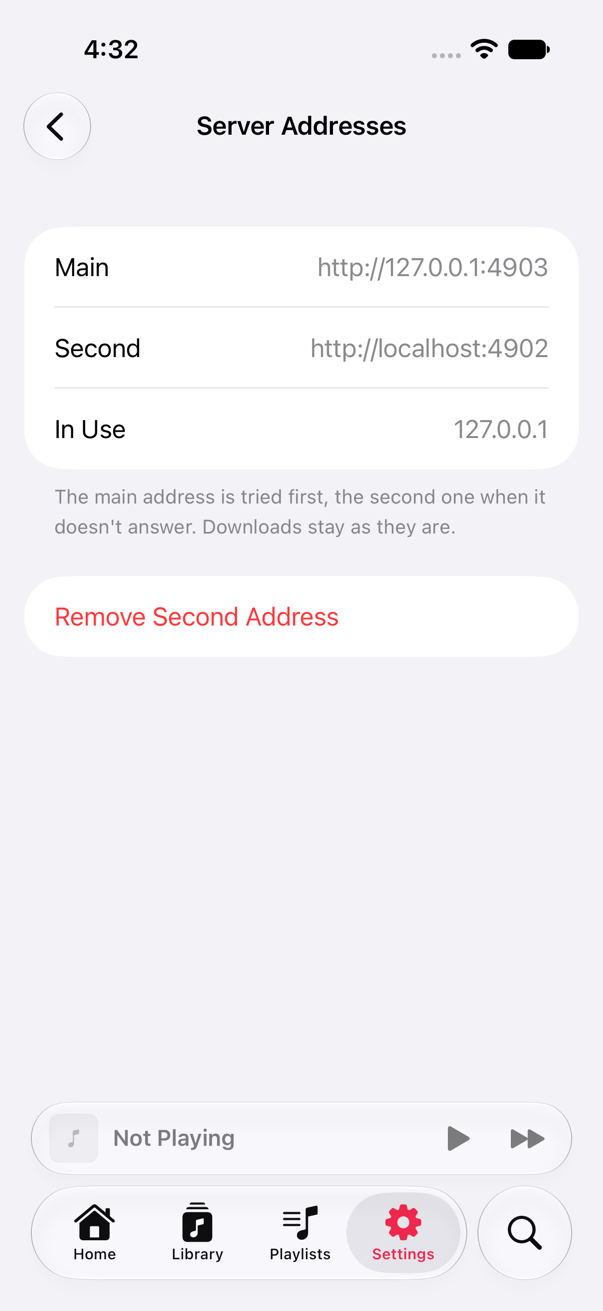
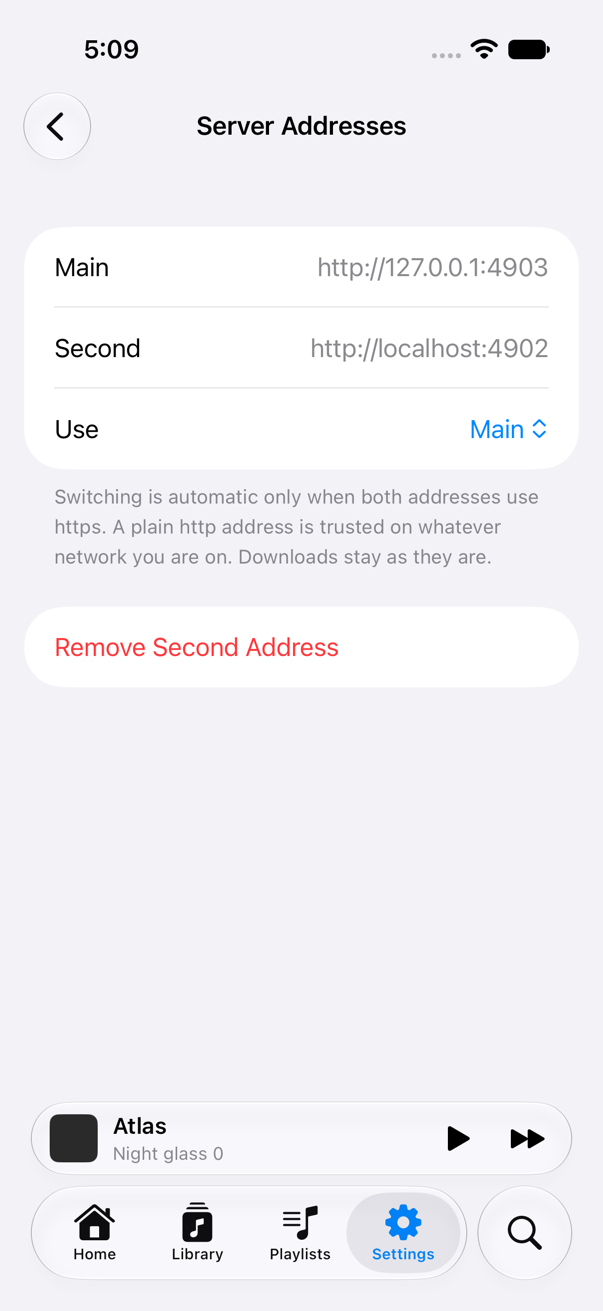
fix(ios): never auto use http

diff --git a/apps/ios/Sources/AppModel.swift b/apps/ios/Sources/AppModel.swift
@@ -46,7 +46,7 @@ final class AppModel: ObservableObject {
             }
         }
     }
-    /// Another way to the same server, tried when the main address doesn't answer.
+    /// Another way to the same server. Used by itself only between two https addresses, see `ServerAddresses`.
     @Published private(set) var secondServer = UserDefaults.standard.url(forKey: "server2")
 
     let downloads = DownloadsModel()
@@ -57,6 +57,11 @@ final class AppModel: ObservableObject {
 
     var user: String { defaults.string(forKey: "user") ?? "" }
     var mainServer: URL? { defaults.url(forKey: "server") }
+    /// The address chosen by hand, when switching isn't automatic.
+    private var pickedServer: URL? { defaults.url(forKey: "serverPicked") }
+    var switchesByItself: Bool { mainServer.map { ServerAddresses.automatic(main: $0, second: secondServer) } ?? false }
+    /// Where a password may be asked for and sent: never a fallback.
+    var signInAddress: URL? { mainServer.map { ServerAddresses.starting(main: $0, second: secondServer) } }
     /// The client to ask the server with, nil when nothing should be asked.
     var live: ServerClient? { needsSignIn || offlineMode ? nil : client }
 
@@ -65,7 +70,9 @@ final class AppModel: ObservableObject {
         try? FileManager.default.createDirectory(at: folder, withIntermediateDirectories: true)
         // Without a database there is no app to show; a crash here is a full disk or a broken install.
         store = try! LibraryStore(path: folder.appending(path: "library.sqlite").path)
-        client = defaults.url(forKey: "server").map { ServerClient(server: $0) }
+        let second = defaults.url(forKey: "server2")
+        let picked = defaults.url(forKey: "serverPicked")
+        client = defaults.url(forKey: "server").map { ServerClient(server: ServerAddresses.starting(main: $0, second: second, picked: picked), home: $0) }
         needsSignIn = defaults.string(forKey: "user") == nil || defaults.bool(forKey: "signedOut")
         library = Self.load(store)
         connectDownloads()
@@ -94,6 +101,8 @@ final class AppModel: ObservableObject {
         defaults.set(main, forKey: "server")
         defaults.set(user, forKey: "user")
         defaults.set(false, forKey: "signedOut")
+        // Typed by hand, so it is a pick.
+        defaults.set(server, forKey: "serverPicked")
         client = ServerClient(server: server, home: main)
         syncError = nil
         needsSignIn = false
@@ -117,25 +126,38 @@ final class AppModel: ObservableObject {
 
     func removeSecondServer() {
         setSecondServer(nil)
-        guard let main = mainServer, client?.server != main else { return }
-        client = ServerClient(server: main)
+        if let main = mainServer { move(to: main) }
+    }
+
+    /// The user's own choice of address.
+    func use(_ server: URL) {
+        defaults.set(server, forKey: "serverPicked")
+        syncError = nil
+        move(to: server)
+        Task { await sync() }
+    }
+
+    private func move(to server: URL) {
+        guard let main = mainServer, server != client?.server else { return }
+        client = ServerClient(server: server, home: main)
         connectDownloads()
+        AppLog.shared.add("Now using \(server.absoluteString)")
     }
 
     private func setSecondServer(_ server: URL?) {
         secondServer = server
         defaults.set(server, forKey: "server2")
+        defaults.removeObject(forKey: "serverPicked")
     }
 
-    /// Moves to whichever address answers. Files stay keyed to the main one, so nothing is fetched twice.
+    /// Moves to the address to be on now. Files stay keyed to the main one, so nothing is fetched twice.
     func chooseAddress() async {
         guard !offlineMode, let main = mainServer, let second = secondServer, let current = client?.server else { return }
-        let next = await ServerAddresses.pick(main: main, second: second, current: current) { await ServerClient(server: $0).reachable() }
+        let picked = pickedServer
+        let next = await ServerAddresses.pick(main: main, second: second, picked: picked, current: current) { await ServerClient(server: $0).reachable() }
         // Signed out or changed while asking.
-        guard !needsSignIn, !offlineMode, secondServer == second, mainServer == main, next != client?.server else { return }
-        client = ServerClient(server: next, home: main)
-        connectDownloads()
-        AppLog.shared.add("Now using \(next.absoluteString)")
+        guard !needsSignIn, !offlineMode, secondServer == second, mainServer == main, pickedServer == picked else { return }
+        move(to: next)
     }
 
     func sync() async {
@@ -173,7 +195,13 @@ final class AppModel: ObservableObject {
             downloads.librarySynced()
             AppLog.shared.add("Synced \(library.songs.count) songs")
         } catch ServerError.signedOut {
-            if !Task.isCancelled { needsSignIn = true }
+            guard !Task.isCancelled else { return }
+            guard let home = signInAddress, client.server != home else { return needsSignIn = true }
+            // A fallback saying no is not a reason to ask for the password there: go back instead.
+            defaults.removeObject(forKey: "serverPicked")
+            move(to: home)
+            syncError = "The other address didn't accept the sign in. Remove it and add it again."
+            AppLog.shared.add("Sign in refused at \(client.server.absoluteString)")
         } catch {
             if !Task.isCancelled {
                 syncError = error.localizedDescription
@@ -196,7 +224,8 @@ final class AppModel: ObservableObject {
         defaults.set(true, forKey: "signedOut")
         needsSignIn = true
         connectDownloads()
-        let others = [mainServer, secondServer].compactMap { $0 }.filter { $0 != client?.server }
+        // Nothing is posted to a plain http address that isn't in use.
+        let others = [mainServer, secondServer].compactMap { $0 }.filter { $0 != client?.server && $0.scheme == "https" }
         signOutTask = Task {
             await stopSync()
             await client?.signOut()

diff --git a/apps/ios/Sources/Core/SongCache.swift b/apps/ios/Sources/Core/SongCache.swift
@@ -10,26 +10,23 @@ final class SongCache: @unchecked Sendable {
         try? FileManager.default.createDirectory(at: folder, withIntermediateDirectories: true)
     }
 
-    /// The copy of this song made at this bit rate, zero being the file as it is.
-    func file(_ id: String, limit: Int) -> URL? {
-        let prefix = "\(limit)-\(DownloadLibrary.fileName(id))."
+    /// The copy of this song, whatever bit rate it was fetched at: playing it costs nothing.
+    func file(_ id: String) -> URL? {
+        let prefix = "\(DownloadLibrary.fileName(id))."
         return names().first { $0.hasPrefix(prefix) }.map { folder.appendingPathComponent($0) }
     }
 
-    /// Drops every copy but those of `ahead` at this bit rate, and any of the song now on.
-    func prune(ahead: [String], current: String?, limit: Int) {
-        let wanted = ahead.map { "\(limit)-\(DownloadLibrary.fileName($0))" }
-        let now = current.map(DownloadLibrary.fileName)
-        for name in names() {
-            let stem = String(name.prefix { $0 != "." })
-            if wanted.contains(stem) || String(stem.drop { $0 != "-" }.dropFirst()) == now { continue }
+    /// Drops every song not in `ids`.
+    func prune(keeping ids: [String]) {
+        let wanted = Set(ids.map(DownloadLibrary.fileName))
+        for name in names() where !wanted.contains(String(name.prefix { $0 != "." })) {
             try? FileManager.default.removeItem(at: folder.appendingPathComponent(name))
         }
     }
 
     /// One at a time, in queue order. Stops when the network does.
     func fill(_ songs: [Song], limit: Int, client: ServerClient, added: @Sendable () async -> Void) async {
-        for song in songs where file(song.id, limit: limit) == nil {
+        for song in songs where file(song.id) == nil {
             let suffix = song.suffix?.lowercased()
             let raw = limit == 0 && (suffix.map(AudioSource.native.contains) ?? true)
             var request = URLRequest(url: client.streamURL(song: song.id, source: raw ? .original : .transcoded, bitRate: limit > 0 ? limit : 320))
@@ -40,7 +37,7 @@ final class SongCache: @unchecked Sendable {
                 if Task.isCancelled { return }
                 guard (response as? HTTPURLResponse)?.statusCode == 200,
                       let kind = DownloadLibrary.audioKind(temporary, suffix: raw ? suffix : nil) else { continue }
-                let target = folder.appendingPathComponent("\(limit)-\(DownloadLibrary.fileName(song.id)).\(kind)")
+                let target = folder.appendingPathComponent("\(DownloadLibrary.fileName(song.id)).\(kind)")
                 try FileManager.default.moveItem(at: temporary, to: target)
                 if !raw, DownloadLibrary.isShort(target, expected: song.duration) {
                     try? FileManager.default.removeItem(at: target)

diff --git a/apps/ios/Tests/CoreTests/OfflineTests.swift b/apps/ios/Tests/CoreTests/OfflineTests.swift
@@ -72,24 +72,37 @@ final class OfflineTests: XCTestCase {
         await cache.fill(songs("s-1", "s.2"), limit: 128, client: client) {}
         await cache.fill(songs("s-1"), limit: 128, client: client) {}
         XCTAssertEqual(AudioServer.asked, ["format=mp3&id=s-1&maxBitRate=128", "format=mp3&id=s.2&maxBitRate=128"])
-        XCTAssertNil(cache.file("s-1", limit: 0))
+        // A copy at another bit rate still counts.
+        await cache.fill(songs("s-1"), limit: 0, client: client) {}
+        XCTAssertEqual(AudioServer.asked.count, 2)
 
-        cache.prune(ahead: ["s.2"], current: nil, limit: 128)
-        XCTAssertNil(cache.file("s-1", limit: 128))
-        XCTAssertNotNil(cache.file("s.2", limit: 128))
-        cache.prune(ahead: [], current: "s.2", limit: 0)
-        XCTAssertNotNil(cache.file("s.2", limit: 128))
+        cache.prune(keeping: ["s.2"])
+        XCTAssertNil(cache.file("s-1"))
+        XCTAssertNotNil(cache.file("s.2"))
     }
 
     func testTheMainAddressWinsWhenItAnswersElseTheSecond() async {
-        let main = URL(string: "http://home.test")!, second = URL(string: "https://away.test")!
+        let main = URL(string: "https://home.test")!, second = URL(string: "https://away.test")!
         func pick(_ up: Set<URL>, current: URL) async -> URL {
-            await ServerAddresses.pick(main: main, second: second, current: current) { up.contains($0) }
+            await ServerAddresses.pick(main: main, second: second, picked: nil, current: current) { up.contains($0) }
         }
         let both = await pick([main, second], current: second)
         let away = await pick([second], current: main)
         let neither = await pick([], current: second)
         XCTAssertEqual([both, away, neither], [main, second, second])
+    }
+
+    func testAPlainHTTPAddressIsOnlyUsedWhenPicked() async {
+        let lan = URL(string: "http://192.168.1.5:4533")!, secure = URL(string: "https://music.test")!
+        func pick(_ main: URL, _ second: URL, picked: URL? = nil) async -> URL {
+            await ServerAddresses.pick(main: main, second: second, picked: picked, current: lan) { _ in
+                XCTFail("nothing is asked when switching is not automatic")
+                return true
+            }
+        }
+        let used = [await pick(lan, secure), await pick(secure, lan), await pick(secure, lan, picked: lan)]
+        XCTAssertEqual(used, [secure, secure, lan])
+        XCTAssertEqual(ServerAddresses.starting(main: secure, second: lan), secure)
     }
 
     func testAnotherServersLibraryIsNotASecondAddress() {

diff --git a/apps/ios/Sources/Core/ServerAddresses.swift b/apps/ios/Sources/Core/ServerAddresses.swift
@@ -2,9 +2,24 @@ import Foundation
 
 /// One server, reachable two ways: the main address (say at home) and a second one (say away).
 enum ServerAddresses {
-    /// The main address whenever it answers, else the second, else stay put.
-    static func pick(main: URL, second: URL?, current: URL, reachable: (URL) async -> Bool) async -> URL {
+    /// Only between two https addresses does the app move by itself: with plain http, whatever holds that address
+    /// on the network at hand would be sent the session.
+    static func automatic(main: URL, second: URL?) -> Bool {
+        main.scheme == "https" && second?.scheme == "https"
+    }
+
+    /// Where to be before asking anyone: what the user picked, else an https address over an http one, else the main.
+    /// With no pick this is also the only address whose "signed out" asks for the password again.
+    static func starting(main: URL, second: URL?, picked: URL? = nil) -> URL {
         guard let second else { return main }
+        if automatic(main: main, second: second) { return main }
+        if let picked, picked == main || picked == second { return picked }
+        return main.scheme != "https" && second.scheme == "https" ? second : main
+    }
+
+    /// The main address whenever it answers, else the second, else stay put. Not automatic: nothing is asked.
+    static func pick(main: URL, second: URL?, picked: URL?, current: URL, reachable: (URL) async -> Bool) async -> URL {
+        guard let second, automatic(main: main, second: second) else { return starting(main: main, second: second, picked: picked) }
         if await reachable(main) { return main }
         if await reachable(second) { return second }
         return current == second ? second : main

diff --git a/apps/ios/Sources/Views/ServerSettings.swift b/apps/ios/Sources/Views/ServerSettings.swift
@@ -15,9 +15,20 @@ struct ServerSettings: View {
                 if let second = model.secondServer {
                     LabeledContent("Second", value: second.absoluteString)
                 }
-                LabeledContent("In Use", value: model.client?.server.host() ?? "")
+                if let main = model.mainServer, let second = model.secondServer, !model.switchesByItself {
+                    Picker("Use", selection: Binding(get: { model.client?.server ?? main }, set: { model.use($0) })) {
+                        Text("Main").tag(main)
+                        Text("Second").tag(second)
+                    }
+                } else {
+                    LabeledContent("In Use", value: model.client?.server.host() ?? "")
+                }
             } footer: {
-                Text("The main address is tried first, the second one when it doesn't answer. Downloads stay as they are.")
+                if model.secondServer != nil && !model.switchesByItself {
+                    Text("Switching is automatic only when both addresses use https. A plain http address is trusted on whatever network you are on. Downloads stay as they are.")
+                } else {
+                    Text("With two https addresses, the main one is tried first and the second when it doesn't answer. Downloads stay as they are.")
+                }
             }
             if model.secondServer != nil {
                 Section {

diff --git a/apps/ios/Sources/Player/PlayerModel.swift b/apps/ios/Sources/Player/PlayerModel.swift
@@ -112,9 +112,9 @@ final class PlayerModel: ObservableObject {
     /// Whether playing `songs` would drop what is still to come.
     func wouldReplace(_ songs: [Song]) -> Bool { line.wouldLose(songs) }
 
-    /// A downloaded file, or one cached ahead, for the quality now asked for.
+    /// A downloaded file, or one cached ahead.
     func localFile(_ id: String) -> URL? {
-        downloads?.localURL(song: id) ?? songCache?.file(id, limit: bitRateLimit)
+        downloads?.localURL(song: id) ?? songCache?.file(id)
     }
 
     func next() {
@@ -457,7 +457,7 @@ final class PlayerModel: ObservableObject {
         guard wanted != fillKey else { return }
         fillKey = wanted
         filling?.cancel()
-        cache.prune(ahead: ahead.map(\.id), current: count > 0 ? current?.id : nil, limit: limit)
+        cache.prune(keeping: count > 0 ? ahead.map(\.id) + [current?.id].compactMap { $0 } : [])
         guard isPlaying, let client, !ahead.isEmpty else {
             // Nothing is fetched while paused; ask again once it plays.
             if !isPlaying { fillKey = "" }

diff --git a/apps/ios/Sources/Core/DownloadLibrary.swift b/apps/ios/Sources/Core/DownloadLibrary.swift
@@ -29,6 +29,7 @@ final class DownloadLibrary: @unchecked Sendable {
         var files: [String: String] = [:]
         /// Removed by hand, so downloading every playlist leaves them alone. Optional: older lists don't have it.
         var skipped: [DownloadRef]?
+        var allPlaylists: Bool?
     }
 
     /// What iOS plays as it is. Anything else (Vorbis, WMA…) is asked for as mp3, `ogg` too: it may hold Vorbis.
@@ -70,6 +71,12 @@ final class DownloadLibrary: @unchecked Sendable {
     }
 
     var collections: [KeptCollection] { locked { manifest.collections } }
+
+    /// This account wants every playlist, those made later too.
+    var allPlaylists: Bool {
+        get { locked { manifest.allPlaylists ?? false } }
+        set { locked { manifest.allPlaylists = newValue; save() } }
+    }
 
     func keep(_ ref: DownloadRef, from store: LibraryStore) {
         locked {

diff --git a/apps/ios/Sources/Downloads/DownloadsModel.swift b/apps/ios/Sources/Downloads/DownloadsModel.swift
@@ -27,9 +27,11 @@ final class DownloadsModel: ObservableObject {
         }
     }
     /// Takes every playlist, those made later too. Turning it off keeps what is already here.
-    @Published var allPlaylists = UserDefaults.standard.bool(forKey: "downloadAllPlaylists") {
-        didSet {
-            UserDefaults.standard.set(allPlaylists, forKey: "downloadAllPlaylists")
+    var allPlaylists: Bool {
+        get { library?.allPlaylists ?? false }
+        set {
+            library?.allPlaylists = newValue
+            revision += 1
             keepPlaylists()
         }
     }

diff --git a/apps/ios/Sources/SignInView.swift b/apps/ios/Sources/SignInView.swift
@@ -77,7 +77,7 @@ struct SignInView: View {
         .scrollDismissesKeyboard(.interactively)
         .background(Color(.systemGroupedBackground))
         .onAppear {
-            server = model.client?.server.absoluteString ?? server
+            server = model.signInAddress?.absoluteString ?? server
             user = model.user
         }
     }

diff --git a/docs/ios.md b/docs/ios.md
@@ -139,10 +139,15 @@ A server can't do the refresh for you (a cron job on your homelab has no way to 
 
 ## Two server addresses
 
-Settings → **Server Addresses** takes a second address of the same server, say a LAN one as the main address and a
-public one as the second. The main one is tried first on every sync and network change. It needs your password once,
-and downloads, covers and plays are shared between the two. A plain `http` address is trusted on whatever network you
-are on, so prefer HTTPS.
+Settings → **Server Addresses** takes a second address of the same server. It needs your password once, and
+downloads, covers and plays are shared between the two.
+
+- Both `https`: the main one is tried first on every sync and network change, the second when it doesn't answer.
+- Either one plain `http`: nothing switches by itself. The `https` one is used until you pick the other under **Use**.
+  An `http` address is trusted on whatever network you are on, so whoever holds it there receives your session:
+  pick it only on a network you trust, and prefer HTTPS for both.
+
+A second address that stops accepting your sign in is dropped, not asked for your password: remove it and add it again.
 
 ## Settings
 
